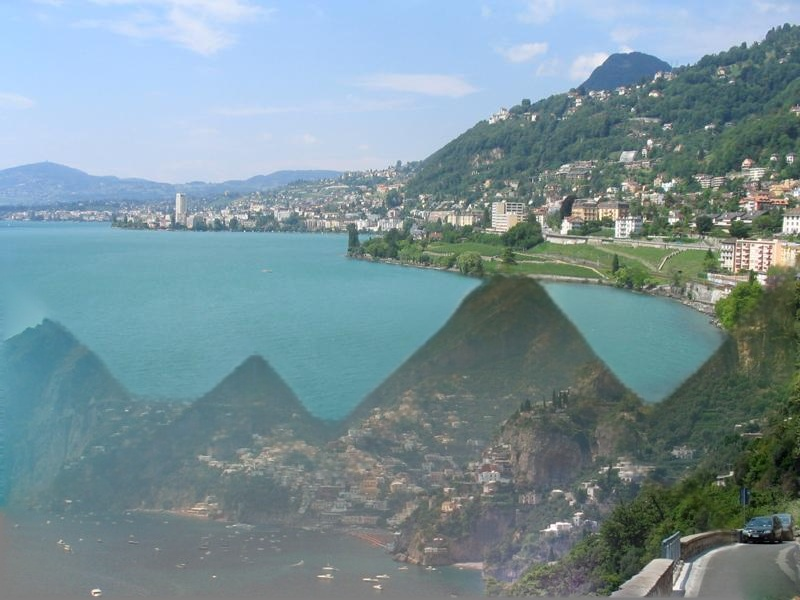
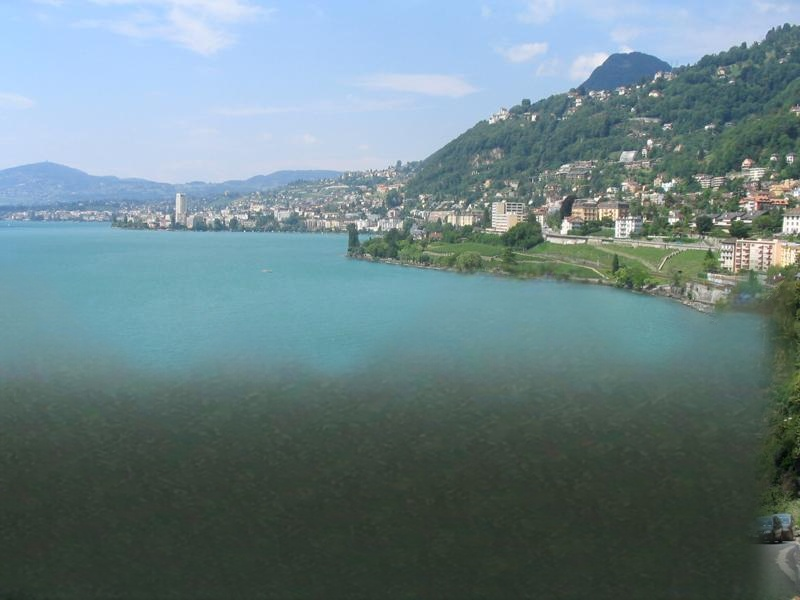
LaMa cleanup: solid region mask with adaptive margin
- build_seam_band_mask gains solid mode: the whole replaced area
  (hole + seams) grown outward, so LaMa re-synthesises the fill
  instead of only harmonising the paste boundary (ring mode kept)
- region margin adapts to the hole: clamp(0.25 * hole side,
  min=--lama-band 12px, max=64px)
- feather transition now stays strictly inside the grown margin and
  alpha is zeroed outside the mask, keeping far pixels bit-exact
  regardless of margin size
- CLI: --lama-ring / --lama-band-scale; README + samples regenerated

diff --git a/local_context_matching.py b/local_context_matching.py
@@ -462,51 +462,84 @@ def composite(orig: np.ndarray, com_scene: np.ndarray, mask: np.ndarray,
 # lama seam cleanup
 # ---------------------------------------------------------------------------
 
-def build_seam_band_mask(mask_seam: np.ndarray, band: int = 12) -> np.ndarray:
-    """Ring mask straddling the boundary of the replaced region.
+def build_seam_band_mask(mask_seam: np.ndarray, band: int = 12,
+                         solid: bool = False) -> np.ndarray:
+    """Mask of the region handed to LaMa for re-synthesis.
 
     ``mask_seam`` marks where match content was pasted over the original
-    (255 = replaced).  The visible paste seams live exactly on that
-    boundary, so we cover a band of ``band`` pixels outside it and about
-    half that inside it: enough for LaMa to re-synthesise the transition
-    without repainting the whole fill.
+    (255 = replaced).
+
+    solid=False (ring): a band of ``band`` pixels straddling that boundary
+    (about half inside) -- LaMa only harmonises the paste transition.
+
+    solid=True: the entire replaced region, grown outward by ``band``
+    pixels -- a single filled mask so LaMa re-synthesises the whole fill.
     """
     m = mask_seam if mask_seam.ndim == 2 else cv2.cvtColor(
         mask_seam.astype(np.uint8), cv2.COLOR_BGR2GRAY)
     m = ((m > 0) * 255).astype(np.uint8)
 
     k_out = 2 * band + 1                      # dilate radius ~ band
-    k_in = max(3, band | 1)                   # erode radius ~ band / 2
     outer = cv2.dilate(m, cv2.getStructuringElement(cv2.MORPH_ELLIPSE,
                                                     (k_out, k_out)))
+    if solid:
+        return (outer > 0).astype(np.uint8) * 255
+
+    k_in = max(3, band | 1)                   # erode radius ~ band / 2
     inner = cv2.erode(m, cv2.getStructuringElement(cv2.MORPH_ELLIPSE,
                                                    (k_in, k_in)))
     return ((outer > 0) & (inner == 0)).astype(np.uint8) * 255
 
 
+def _adaptive_band_width(mask_scene: np.ndarray, min_band: int = 12,
+                         scale: float = 0.25,
+                         max_band: int = 64) -> int:
+    """LaMa region margin grown with the size of the hole.
+
+    ``max(min_band, min(max_band, scale * hole bbox larger side))`` so
+    small holes keep the minimum width, mid-size holes grow proportionally
+    and pathologically large holes do not repaint the whole photograph.
+    """
+    hole = mask_scene == 0
+    if not hole.any():
+        return int(min_band)
+    ys, xs = np.where(hole)
+    size = max(int(ys.max()) - int(ys.min()), int(xs.max()) - int(xs.min())) + 1
+    return int(np.clip(round(scale * size), int(min_band), int(max_band)))
+
+
 def inpaint_seams_lama(stages: Dict[str, object], local_context_size: int = 55,
-                       band: int = 12) -> Tuple[np.ndarray, np.ndarray]:
+                       band: int = 12, solid: bool = True,
+                       band_scale: float = 0.25) -> Tuple[np.ndarray, np.ndarray]:
     """Clean up the composited output by inpainting its seams with LaMa.
 
-    A seam band mask is derived from the pipeline's seam cut, lifted back
-    to full resolution coordinates and handed to LaMa; the result is
-    feather-blended into the output so pixels away from the seams stay
-    exactly as they were.
+    The region handed to LaMa is derived from the pipeline's seam cut,
+    lifted back to full resolution coordinates; the result is feather-
+    blended into the output so pixels outside it stay exactly as they
+    were.  By default the region is the whole replaced area grown by an
+    adaptive margin (``band`` clamped between the minimum and
+    ``band_scale * hole size``, capped); with ``solid=False`` only a ring
+    around the paste boundary is repainted.
 
     returns:
-    (cleaned output, full resolution seam band mask)
+    (cleaned output, full resolution lama mask)
     """
     output = np.clip(stages["output"], 0, 255).astype(np.uint8)
     h, w = output.shape[:2]
 
-    band_scene = build_seam_band_mask(stages["mask_seam"], band)
+    # grow the width of the region with the size of the hole
+    band = _adaptive_band_width(stages["mask_scene"], band, band_scale)
 
-    # the hole rim is always a material boundary (pasted match content
-    # against the original photograph); ring it too so cleanup still
-    # happens when the seam cut degenerated into a solid mask_seam
-    replaced_hole = (stages["mask_scene"] == 0).astype(np.uint8) * 255
-    band_scene = cv2.bitwise_or(band_scene,
-                                build_seam_band_mask(replaced_hole, band))
+    # replaced content: seam-cut region plus the hole itself (the rim is
+    # always a material boundary, and this keeps the mask meaningful even
+    # when the seam cut degenerated into a solid mask_seam)
+    seam = stages["mask_seam"]
+    if seam.ndim == 3:
+        seam = cv2.cvtColor(seam.astype(np.uint8), cv2.COLOR_BGR2GRAY)
+    replaced = ((seam > 0) |
+                (stages["mask_scene"] == 0)).astype(np.uint8) * 255
+    band_scene = build_seam_band_mask(replaced, band, solid=solid)
+
     min_x, max_x, min_y, max_y = _context_bbox(stages["mask"],
                                                local_context_size)
 
@@ -519,19 +552,26 @@ def inpaint_seams_lama(stages: Dict[str, object], local_context_size: int = 55,
         band_scene[:rows, :cols]
 
     if not (band_full > 0).any():
-        print("  LaMa: empty seam band, skipping inpainting")
+        print("  LaMa: empty lama mask, skipping inpainting")
         return output, band_full
 
-    print(f"  LaMa: inpainting seam band "
-          f"({int((band_full > 0).sum())} px)")
+    print(f"  LaMa: inpainting {'solid region' if solid else 'seam band'} "
+          f"({int((band_full > 0).sum())} px, margin {band} px)")
     cleaned = lama_inpaint.lama_inpaint(output, band_full)
     if cleaned is None:
         return output, band_full
 
-    # feathered blend: untouched pixels stay bit-exact, only the band is
-    # replaced by the inpainted content
-    kernel = 2 * band + 1
-    alpha = cv2.GaussianBlur(band_full, (kernel, kernel), 0)[..., None] / 255.0
+    # feathered blend: untouched pixels stay bit-exact, only the masked
+    # region is replaced by the inpainted content.  The transition is kept
+    # strictly inside the grown margin: blur an eroded copy so alpha fades
+    # out before reaching the mask edge, and clamp it to zero elsewhere.
+    feather = 2 * min(max(3, band // 2), 32) + 1
+    inner = cv2.erode(band_full, cv2.getStructuringElement(
+        cv2.MORPH_ELLIPSE, (feather, feather)))
+    if not (inner > 0).any():
+        inner = band_full
+    alpha = cv2.GaussianBlur(inner, (feather, feather), 0)[..., None] / 255.0
+    alpha = np.where(band_full[..., None] > 0, alpha, 0.0)
     blended = output.astype(np.float64) * (1 - alpha) + \
         cleaned.astype(np.float64) * alpha
     return np.clip(blended, 0, 255).astype(np.uint8), band_full
@@ -545,12 +585,16 @@ def scene_completion_pipeline(orig_name: str, mask_name: str, match_name: str,
                               local_context_size: int = 55,
                               dilation: bool = True,
                               lama: bool = True,
-                              lama_band: int = 12) -> Dict[str, object]:
+                              lama_band: int = 12,
+                              lama_solid: bool = True,
+                              lama_band_scale: float = 0.25) -> Dict[str, object]:
     """Run the full pipeline and return every intermediate stage.
 
     When ``lama`` is true the composited output gets a final pass in which
-    the paste seams are re-synthesised with LaMa inpainting (``lama_band``
-    controls the width of the re-inpainted band around each seam).
+    the pasted region is re-synthesised with LaMa inpainting.  The region
+    is grown by ``max(lama_band, lama_band_scale * hole size)`` pixels;
+    with ``lama_solid`` it is a filled region covering the whole fill,
+    otherwise just a ring around the paste boundary.
     """
     orig, mask, match = read_images(orig_name, mask_name, match_name)
     orig_scene, mask_scene, orig_scene_no_mask, dialation_mask = get_masked_scene(
@@ -588,7 +632,8 @@ def scene_completion_pipeline(orig_name: str, mask_name: str, match_name: str,
 
     if lama:
         output_lama, seam_band_mask = inpaint_seams_lama(
-            stages, local_context_size, lama_band)
+            stages, local_context_size, lama_band,
+            solid=lama_solid, band_scale=lama_band_scale)
         stages["seam_band_mask"] = seam_band_mask
         stages["output_lama"] = output_lama
 
@@ -600,7 +645,9 @@ def local_context_match(orig_name: str, mask_name: str, match_name: str,
                         method: str = 'seamlessclone',
                         dilation: bool = True,
                         lama: bool = True,
-                        lama_band: int = 12) -> np.ndarray:
+                        lama_band: int = 12,
+                        lama_solid: bool = True,
+                        lama_band_scale: float = 0.25) -> np.ndarray:
     """Complete the ``mask_name`` region of ``orig_name`` using ``match_name``.
 
     Sample usage::
@@ -609,7 +656,9 @@ def local_context_match(orig_name: str, mask_name: str, match_name: str,
     """
     stages = scene_completion_pipeline(orig_name, mask_name, match_name,
                                        local_context_size, dilation,
-                                       lama=lama, lama_band=lama_band)
+                                       lama=lama, lama_band=lama_band,
+                                       lama_solid=lama_solid,
+                                       lama_band_scale=lama_band_scale)
     return stages.get("output_lama", stages["output"])
 
 
@@ -657,7 +706,14 @@ def main(argv: Optional[List[str]] = None) -> int:
     parser.add_argument("--no-lama", action="store_true",
                         help="skip the final LaMa seam inpainting pass")
     parser.add_argument("--lama-band", type=int, default=12,
-                        help="width in pixels of the LaMa seam band (default 12)")
+                        help="minimum width in pixels of the LaMa region margin "
+                             "(default 12)")
+    parser.add_argument("--lama-band-scale", type=float, default=0.25,
+                        help="margin growth per pixel of hole size; the margin is "
+                             "max(--lama-band, scale * hole side) (default 0.25)")
+    parser.add_argument("--lama-ring", action="store_true",
+                        help="only repaint a ring around the paste boundary "
+                             "instead of the whole filled region")
     parser.add_argument("--save-dir", default="output",
                         help="where to write the result and diagnostics")
     parser.add_argument("--quiet", action="store_true",
@@ -687,7 +743,9 @@ def main(argv: Optional[List[str]] = None) -> int:
     stages = scene_completion_pipeline(args.image, args.mask, match_name,
                                        args.context_size,
                                        lama=not args.no_lama,
-                                       lama_band=args.lama_band)
+                                       lama_band=args.lama_band,
+                                       lama_solid=not args.lama_ring,
+                                       lama_band_scale=args.lama_band_scale)
     save_stages(stages, args.save_dir)
     print(f"wrote {os.path.join(args.save_dir, 'output.jpg')}")
     if "output_lama" in stages:

diff --git a/tests/test_local_context_matching.py b/tests/test_local_context_matching.py
@@ -124,7 +124,7 @@ def test_create_seam_cut_masks_entire_hole():
 
 
 def test_build_seam_band_mask_is_a_boundary_ring():
-    """The band must hug the replaced-region boundary on both sides."""
+    """Ring mode must hug the replaced-region boundary on both sides."""
     replaced = np.zeros((100, 100), np.uint8)
     replaced[30:70, 35:65] = 255
 
@@ -140,6 +140,38 @@ def test_build_seam_band_mask_is_a_boundary_ring():
     assert g[31, 50] == 255      # just inside (match side)
     # ring must be thin relative to the region it surrounds
     assert (g > 0).sum() < 0.25 * g.size
+
+
+def test_build_seam_band_mask_solid_fills_region():
+    """Solid mode must cover the whole replaced region plus its margin."""
+    replaced = np.zeros((100, 100), np.uint8)
+    replaced[30:70, 35:65] = 255
+
+    solid = lcm.build_seam_band_mask(replaced, band=6, solid=True)
+
+    assert solid.shape == (100, 100)
+    assert (solid[30:70, 35:65] == 255).all()   # interior fully covered
+    assert solid[29, 50] == 255                 # margin grown outside
+    assert solid[71, 50] == 255
+    assert solid[22, 50] == 0                   # beyond ~band: untouched
+    assert solid[2, 2] == 0
+
+
+def test_adaptive_band_width_grows_with_hole_size():
+    small = np.full((200, 200), 255, np.uint8)
+    small[90:110, 90:110] = 0                       # 20 px hole
+    assert lcm._adaptive_band_width(small, min_band=12,
+                                    scale=0.25) == 12   # clamped to minimum
+
+    big = np.full((400, 400), 255, np.uint8)
+    big[100:300, 150:250] = 0                       # 200 px hole
+    assert lcm._adaptive_band_width(big, min_band=12,
+                                    scale=0.25) == 50   # 0.25 * 200
+
+    huge = np.full((1000, 1000), 255, np.uint8)
+    huge[100:900, 100:900] = 0                      # 800 px hole
+    assert lcm._adaptive_band_width(huge, min_band=12,
+                                    scale=0.25) == 64   # clamped to maximum
 
 
 # ---------------------------------------------------------------------------

diff --git a/README.md b/README.md
@@ -76,9 +76,10 @@ uv run python local_context_matching.py \
 Every intermediate stage (context windows, best match, seam mask, composites,
 final output) is written to `--save-dir`. The last stage written,
 `output_lama.jpg`, is the final output after the LaMa seam cleanup pass.
-Pass `--no-lama` to skip it and keep the raw composite (`output.jpg`), or
-`--lama-band N` to widen/narrow the band of pixels re-inpainted around each
-seam (default 12).
+Pass `--no-lama` to skip it entirely, `--lama-ring` to only repaint a ring
+around each paste boundary instead of the whole filled region, `--lama-band N`
+to change the minimum margin (default 12), or `--lama-band-scale F` to change
+how the margin grows with hole size (default 0.25, capped at 64 px).
 
 ### LaMa seam inpainting
 
@@ -87,13 +88,15 @@ content is pasted over the original photo. [`lama_inpaint.py`](lama_inpaint.py)
 removes these artefacts with [LaMa](https://github.com/advimman/lama) running
 through OpenCV's DNN module:
 
-1. a ring-shaped band mask is derived from the graph-cut seam (a few pixels on
-   each side of every paste boundary),
-2. a padded window around the band is resampled to the network's fixed 512x512
-   input, inpainted in one pass, and resampled back at full resolution — much
-   sharper than squashing the whole photograph to 512x512,
-3. the result is feather-blended under the band mask, so pixels away from the
-   seams remain bit-identical to the raw composite.
+1. a **solid region mask** is built from the seam cut — the entire replaced
+   area (hole + seams), grown outward by an adaptive margin of
+   `max(12 px, min(64 px, 0.25 × hole side))`, so LaMa re-synthesises the
+   whole fill rather than just harmonising its edges,
+2. a padded window around that region is resampled to the network's fixed
+   512x512 input, inpainted in one pass, and resampled back at full resolution
+   — much sharper than squashing the whole photograph to 512x512,
+3. the result is feather-blended strictly inside the region mask, so pixels
+   outside it remain bit-identical to the raw composite.
 
 The weights live in [`models/lama.onnx`](models/lama.onnx) and are tracked with
 [Git LFS](https://git-lfs.com/) — install it before cloning, otherwise you will
@@ -133,8 +136,9 @@ uv run jupyter lab
 | `create_seam_cut` | four minimum-cost seams around the hole via `skimage.graph.MCP`, closed by flood fill |
 | `composite_scene` | merge match into original via `paste`, feathered `alphablend`, or Poisson `seamlessclone` |
 | `composite` | paste the completed context back into the full size image |
-| `build_seam_band_mask` | ring mask straddling the boundary of the pasted (match) region |
-| `inpaint_seams_lama` | re-synthesise the paste seams with LaMa and feather-blend them back |
+| `build_seam_band_mask` | ring or solid LaMa region derived from the pasted (match) area |
+| `_adaptive_band_width` | region margin from hole size, clamped between min and cap |
+| `inpaint_seams_lama` | re-synthesise the fill with LaMa and feather-blend it back |
 | `local_context_match` / `scene_completion_pipeline` | run everything end to end |
 
 `lama_inpaint.py` wraps the ONNX model itself: lazy single load of the network,
